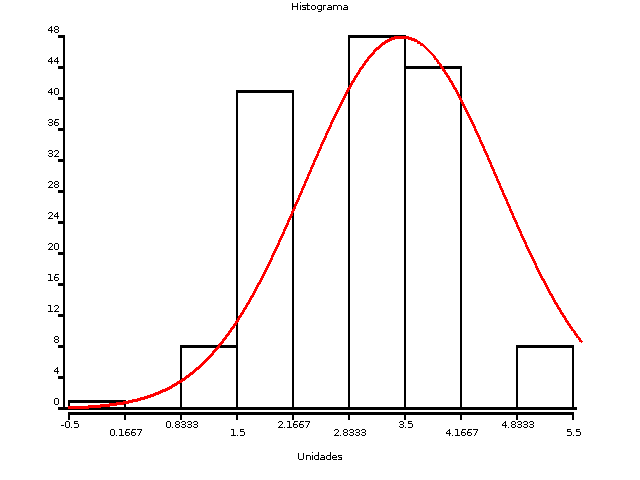
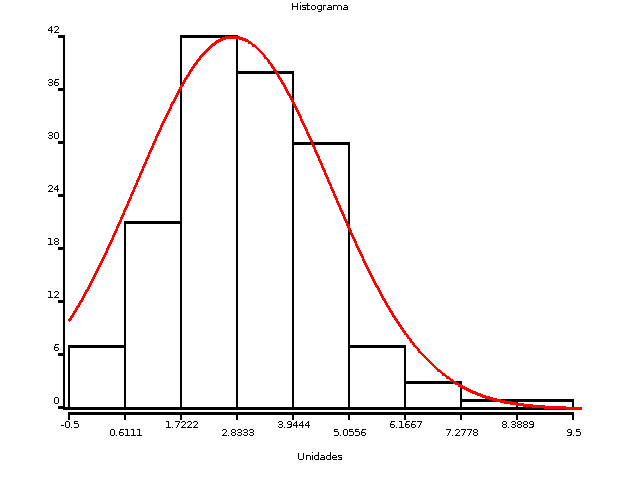
agregada escala a la curva de probabilidad

diff --git a/EstadisticaDescriptiva/src/estadisticadescriptiva/graficas/CurvaDeDistribucion.java b/EstadisticaDescriptiva/src/estadisticadescriptiva/graficas/CurvaDeDistribucion.java
@@ -7,10 +7,17 @@ package estadisticadescriptiva.graficas;
 
 import Distribuciones.Distribucion;
 import Distribuciones.DistribucionNormal;
+import estadisticadescriptiva.datos.Clase;
+import static estadisticadescriptiva.graficas.Histograma.ANCHO_ESTANDAR;
+import static estadisticadescriptiva.graficas.Histograma.GROSOR_ESTANDAR;
+import static estadisticadescriptiva.graficas.Histograma.MARGEN_X;
+import static estadisticadescriptiva.graficas.Histograma.MARGEN_Y;
 import java.awt.BasicStroke;
 import java.awt.Color;
+import java.awt.Font;
 import java.awt.Graphics2D;
 import java.awt.image.BufferedImage;
+import java.text.DecimalFormat;
 
 public class CurvaDeDistribucion extends Grafica {
 
@@ -36,54 +43,127 @@ public class CurvaDeDistribucion extends Grafica {
         }
     }
 
-    
-
     @Override
     public void dibujar() {
-        int origenX = (int) (anchura * MARGEN_X),
-                origenY = (int) (altura * (1 - MARGEN_Y)),
-                margenX = (int) (anchura * MARGEN_X),
-                margenYinf = (int) (altura * MARGEN_Y),
-                margenYsup = (int) (altura * 0.5 * MARGEN_Y),
-                longitudEjeY = (altura - margenYsup - margenYinf),
-                longitudEjeX = anchura - 2 * margenX,
+        int margenX,
+                margenYinf,
+                margenYsup,
+                nClases,
+                anchoBarra,
+                longitudEjeX,
+                longitudGuia,
+                longitudEjeY,
+                alturaBarra,
+                escala,
+                noEscalas,
+                longitudDivY,
+                espacioAnterior,
+                fuente,
+                i,
                 x1,
-                y1,
                 x2,
-                y2;
+                y1,
+                y2,
+                origenX;
+        double coefPF, proporcionX,
+                cifraEscala,
+                amplitudEscala,
+                datoMinimo,
+                rango = max - min,
+                probabilidadMaxima = obtenerProbabilidadMaxima(dist, normalAprox, min, max);
+        normalAprox = dist;
+        System.out.println("max prob: " + probabilidadMaxima);
+        if (dist.getTipo() != Distribucion.Tipos.Continua) {
+            normalAprox = new DistribucionNormal(dist.calcularMedia(), dist.calcularDesviacionE());
+        }
         Graphics2D pluma;
-        double proporcionX, proporcionY, min2;
-        //Inicializar todos la imagen
+        DecimalFormat formato = new DecimalFormat("#.####");
+        String cifraEscalaStr, leyendas;
+        margenX = (int) (anchura * MARGEN_X);
+        margenYinf = (int) (altura * MARGEN_Y);
+        margenYsup = (int) (altura * 0.5 * MARGEN_Y);
+        longitudEjeX = anchura - 2 * margenX;
+        longitudEjeY = (altura - margenYsup - margenYinf);
+        coefPF = (double) longitudEjeY / probabilidadMaxima;
         grafica = new BufferedImage(anchura, altura, BufferedImage.TYPE_INT_RGB);
         pluma = (Graphics2D) grafica.getGraphics();
         pluma.setColor(fondo);
 
-        //Pintar fondo.
-        pluma.fillRect(0, 0, anchura, altura);
-
         pluma.setStroke(new BasicStroke(GROSOR_ESTANDAR * (anchura / ANCHO_ESTANDAR)));
+        espacioAnterior = (int) (2 * GROSOR_ESTANDAR * (anchura / ANCHO_ESTANDAR));
 
+        //Pintar fondo
+        pluma.fillRect(0, 0, anchura, altura);
         pluma.setColor(Color.BLACK);
-
         //Trazar los ejes.
-        pluma.drawLine(origenX, origenY, longitudEjeX + origenX, origenY);
-        //eje Y
-        pluma.drawLine(origenX, origenY, origenX, margenYsup);
+        //Eje X
+        pluma.drawLine(margenX, altura - margenYinf, longitudEjeX + margenX, altura - margenYinf);
+        // Eje Y
+        pluma.drawLine(margenX, altura - margenYinf, margenX, margenYsup);
 
-        //Graficar la curva.
+        //Trazar la escala en y.
+        noEscalas = 8;
+        escala = longitudEjeY / noEscalas;
+        longitudDivY = (int) (5 * (double) (anchura / ANCHO_ESTANDAR));
+        //fuente = espacioAnterior * 4;
+        fuente = (int) (longitudDivY * 2);
+        pluma.setFont(new Font(pluma.getFont().getName(), 0, fuente));
+        i = margenYsup;
+        for (int j = 0; j <= noEscalas; j++) {
+            pluma.drawLine(margenX - longitudDivY, i, margenX, i);
+            cifraEscala = (double) (noEscalas - j) * (escala / coefPF);
+            cifraEscalaStr = formato.format(cifraEscala);
+            pluma.drawString(cifraEscalaStr,
+                    margenX - pluma.getFontMetrics().stringWidth(cifraEscalaStr) - longitudDivY,
+                    i - 3);
+            i += escala;
 
-        proporcionX = (double)longitudEjeX / (double) (max - min);
-        proporcionY = longitudEjeY / (double) obtenerProbabilidadMaxima();
-        pluma.setStroke(new BasicStroke(1.6f));
+        }
+        noEscalas = 8;
+        //trazar escala en X
+
+        longitudGuia = longitudEjeX;
+        escala = longitudGuia / noEscalas;
+        pluma.drawLine(margenX + espacioAnterior,
+                altura - (margenYinf - espacioAnterior),
+                longitudGuia + margenX + espacioAnterior,
+                altura - (margenYinf - espacioAnterior));
+
+        amplitudEscala = rango / noEscalas;
+        i = margenX + espacioAnterior;
+        datoMinimo = min;
+        for (int j = 0; j <= noEscalas; j++) {
+            cifraEscala = amplitudEscala * j + datoMinimo;
+            cifraEscalaStr = formato.format(cifraEscala);
+            pluma.drawLine(i,
+                    altura - (margenYinf - espacioAnterior),
+                    i,
+                    altura - (margenYinf - espacioAnterior - longitudDivY));
+            pluma.drawString(cifraEscalaStr,
+                    i - (pluma.getFontMetrics().stringWidth(cifraEscalaStr)) / 2,
+                    altura - (margenYinf - espacioAnterior - (j % 2) * (longitudDivY + 3) - 3 * longitudDivY));
+            i += escala;
+        }
+
+        //Colocar leyenda "Histograma"
+        leyendas = "Histograma";
+        pluma.drawString(leyendas, (anchura - (pluma.getFontMetrics().stringWidth(leyendas))) / 2,
+                espacioAnterior * 2);
+        leyendas = "Unidades";
+        pluma.drawString(leyendas, (anchura - (pluma.getFontMetrics().stringWidth(leyendas))) / 2,
+                altura - 4 * espacioAnterior);
+
+        origenX = margenX + espacioAnterior;
         pluma.setColor(Color.RED);
-        x1 = origenX;
-        System.out.println("x1: " + x1);
+        coefPF = (double) longitudEjeY / (probabilidadMaxima);
+        proporcionX = longitudEjeX / (max - min);
+        x1 = margenX + espacioAnterior;
         while (x1 < longitudEjeX + origenX) {
             //obtener coordenada Y del punto a graficar.
-            y1 = margenYsup + longitudEjeY - (int)((double)(normalAprox.probabilidad((x1-origenX)/proporcionX + min)*proporcionY));
-            System.out.println(normalAprox.probabilidad((x1 - origenX)/proporcionX));
+            y1 = margenYsup + longitudEjeY - (int) ((double) (normalAprox.probabilidad((x1 - origenX) / proporcionX + min) * coefPF));
+            //System.out.println("'till then: " + n * normalAprox.probabilidad((x1-origenX)/proporcionX + min));
             x2 = x1 + 1;
-            y2 = margenYsup + longitudEjeY - (int) ((double)(normalAprox.probabilidad((x2-origenX)/proporcionX + min)*proporcionY));
+            y2 = margenYsup + longitudEjeY - (int) ((double) (normalAprox.probabilidad((x2 - origenX) / proporcionX + min) * coefPF));
             //ahora sigue dibujar la linea.
             pluma.drawLine(x1, y1, x2, y2);
             //graficar un punto
@@ -92,9 +172,9 @@ public class CurvaDeDistribucion extends Grafica {
             x1++;
         }
     }
-    
-    
-    private double obtenerProbabilidadMaxima() {
+
+    private double obtenerProbabilidadMaxima(Distribucion dist, Distribucion normalAprox, double min, double max) {
+
         double pMax = Double.MIN_VALUE,
                 aux;
         if (!(dist.getClass() == DistribucionNormal.class)) {
@@ -111,7 +191,30 @@ public class CurvaDeDistribucion extends Grafica {
                     pMax = aux;
                 }
             }
-        }else{
+        } else {
+            pMax = dist.probabilidad(dist.calcularMedia());
+        }
+        return pMax;
+    }
+
+    private double obtenerProbabilidadMaxima() {
+        double pMax = Double.MIN_VALUE,
+                aux;
+        if (!(dist.getClass() == DistribucionNormal.class)) {
+            if (dist.getTipo() == Distribucion.Tipos.Continua) {
+                for (double i = min; i < max; i += 0.0001) {
+                    aux = dist.probabilidad(i);
+                    if (pMax < aux) {
+                        pMax = aux;
+                    }
+                }
+            } else {
+                aux = dist.probabilidad(dist.calcularMedia());
+                if (aux > pMax) {
+                    pMax = aux;
+                }
+            }
+        } else {
             pMax = dist.probabilidad(dist.calcularMedia());
         }
         return pMax;

diff --git a/EstadisticaDescriptiva/src/estadisticadescriptiva/revision/TestCurvaD.java b/EstadisticaDescriptiva/src/estadisticadescriptiva/revision/TestCurvaD.java
@@ -29,16 +29,22 @@ public class TestCurvaD {
     public static void main(String[] args) {
 
         try {
-            DatosEnBruto dE = new DatosEnBruto(new ArchivoDeDatos("hiper.txt", ",").getDatos(true));
-            DatosAgrupados dA = new DatosAgrupados(dE,DatosAgrupados.FormulasNC.Sturges);
-            Histograma hist = new Histograma(640,480,Color.WHITE,dA);
-            Distribucion dist = new DistribucionHipergeometrica(20,5,13);
-            System.out.println("media: " +dist.calcularMedia() + " - " + dE.calcularMedia());
-            System.out.println("desviacionE: " +dist.calcularDesviacionE() + " - " + dE.calcularDeviacionE());
+            DatosEnBruto dE = new DatosEnBruto(new ArchivoDeDatos("poisson.txt", ",").getDatos(true));
+            DatosAgrupados dA = new DatosAgrupados(dE, DatosAgrupados.FormulasNC.Sturges);
+            Histograma hist = new Histograma(640, 480, Color.WHITE, dA);
+            //Distribucion dist = new DistribucionHipergeometrica(20,5,13);
+            //Distribucion dist = new DistribucionBinomial(5,0.42);
+            //Distribucion dist = new DistribucionNormal(dE.calcularMedia(),dE.calcularDeviacionE());
+            Distribucion dist = new DistribucionPoisson(dE.calcularMedia());
+            System.out.println("maxP: " + dist.probabilidad(dE.calcularMedia()));
+            Distribucion n = new DistribucionNormal(dist.calcularMedia(),dist.calcularDesviacionE());
+            System.out.println("maxNprob: " + n.probabilidad(dE.calcularMedia()));
+            System.out.println("media: " + dist.calcularMedia() + " - " + dE.calcularMedia());
+            System.out.println("desviacionE: " + dist.calcularDesviacionE() + " - " + dE.calcularDeviacionE());
             CurvaDeDistribucion curva = new CurvaDeDistribucion(640, 480, dist, dE.getDatos()[0], dE.getDatos()[149], Color.WHITE);
-            
+
             curva.dibujar();
-            
+
             hist.dibujar(dist);
             hist.guardarEnDisco("histogramaCurva.png", "PNG");
             curva.guardarEnDisco("Curva.png", "PNG");

diff --git a/EstadisticaDescriptiva/src/Distribuciones/PruebaKolmogorovSmirnov.java b/EstadisticaDescriptiva/src/Distribuciones/PruebaKolmogorovSmirnov.java
@@ -208,7 +208,6 @@ public class PruebaKolmogorovSmirnov {
         }else if(significancia == 0.01){
             numerador = 1.63;
         }
-        System.out.println("significancia: "  + significancia);
         return (double)(numerador / (double)Math.sqrt(n));
     }
     
